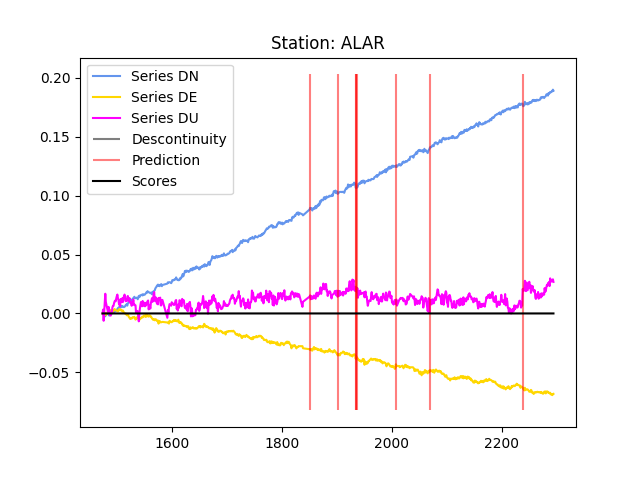
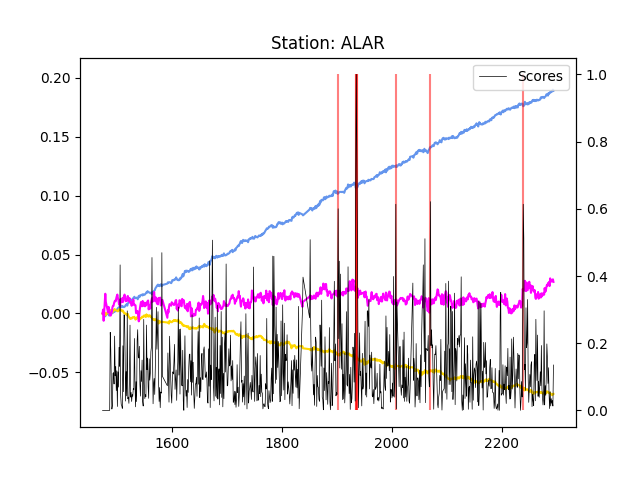
Process all stations

diff --git a/process_stations/process_stations.py b/process_stations/process_stations.py
@@ -1,5 +1,6 @@
 import numpy as np
 import sklearn
+import json
 
 import sys
 sys.path.append('.')
@@ -19,7 +20,7 @@ def read_stations_file(stations_file:str) -> list:
         return []
         
 def process_stations(stations:list):
-    stations = ['BRAZ', 'CHEC']
+    #stations = ['BRAZ', 'CHEC']
     total_truth = []
     total_pred = []
     for station in stations:
@@ -27,7 +28,10 @@ def process_stations(stations:list):
         station_trainer = StationTrainer(station=station, use_du=False)
 
         # Actual training
-        scores, truth, pred = station_trainer.train()
+        try:
+            scores, truth, pred = station_trainer.train()
+        except:
+            continue
         total_truth.append(truth)
         total_pred.append(pred)
 
@@ -47,16 +51,16 @@ def process_stations(stations:list):
     print(f"Global Recall: {recall}")
     print(f"Global F1 score: {f1}")
 
-    with open('dataset/global_metrics.txt', '+w') as result:
-        result.write(
-            f'''
-            Global metrics over all stations:
-            Global Accuracy -> {accuracy}
-            Global Precision -> {precision}
-            Global Recall -> {recall}
-            Global F1 -> {f1}
-            '''
-        )
+    metrics = {
+        'Type': 'Global',
+        'Accuracy':accuracy,
+        'Precision':np.array2string(precision, precision=2, separator=', '),
+        'Recall':np.array2string(recall, precision=2, separator=', '),
+        'F1':f1,
+    }
+
+    with open('dataset/global_metrics.txt', 'w') as result:
+        json.dump(metrics, result)
 
 if __name__ == '__main__':
     stations_filepath = 'dataset/brazil_stations.txt'

diff --git a/station_trainer/station_trainer.py b/station_trainer/station_trainer.py
@@ -4,6 +4,7 @@ import pandas as pd
 import sklearn
 import pandas as pd
 import numpy as np
+from sklearn.preprocessing import MinMaxScaler
 
 # Importing our custom TimesNet with Convergence Early Stop
 import sys
@@ -82,6 +83,8 @@ class StationTrainer():
         
         # Getting scores
         scores = model.decision_function(training_data)
+        scaler = MinMaxScaler(feature_range=(0, 1))
+        scores = scaler.fit_transform(scores.reshape(-1, 1))
 
         # Calculating predictions based on a percentile
         threshold = np.percentile(scores, params['percentile'])
@@ -117,7 +120,8 @@ class StationTrainer():
         plt.vlines(predictions.gps_week, ymin=plt.ylim()[0], ymax=plt.ylim()[1], color = 'red', alpha=0.5, label='Prediction')
 
         # Plotting scores
-        plt.plot(self.gnss_data.gps_week, scores, color = 'black', label = 'Scores')
+        ax2 = plt.twinx()
+        ax2.plot(self.gnss_data.gps_week, scores, color='black', linewidth=0.5, label='Scores')
 
         plt.legend()
         plt.title(f'Station: {self.station}', loc='center')
